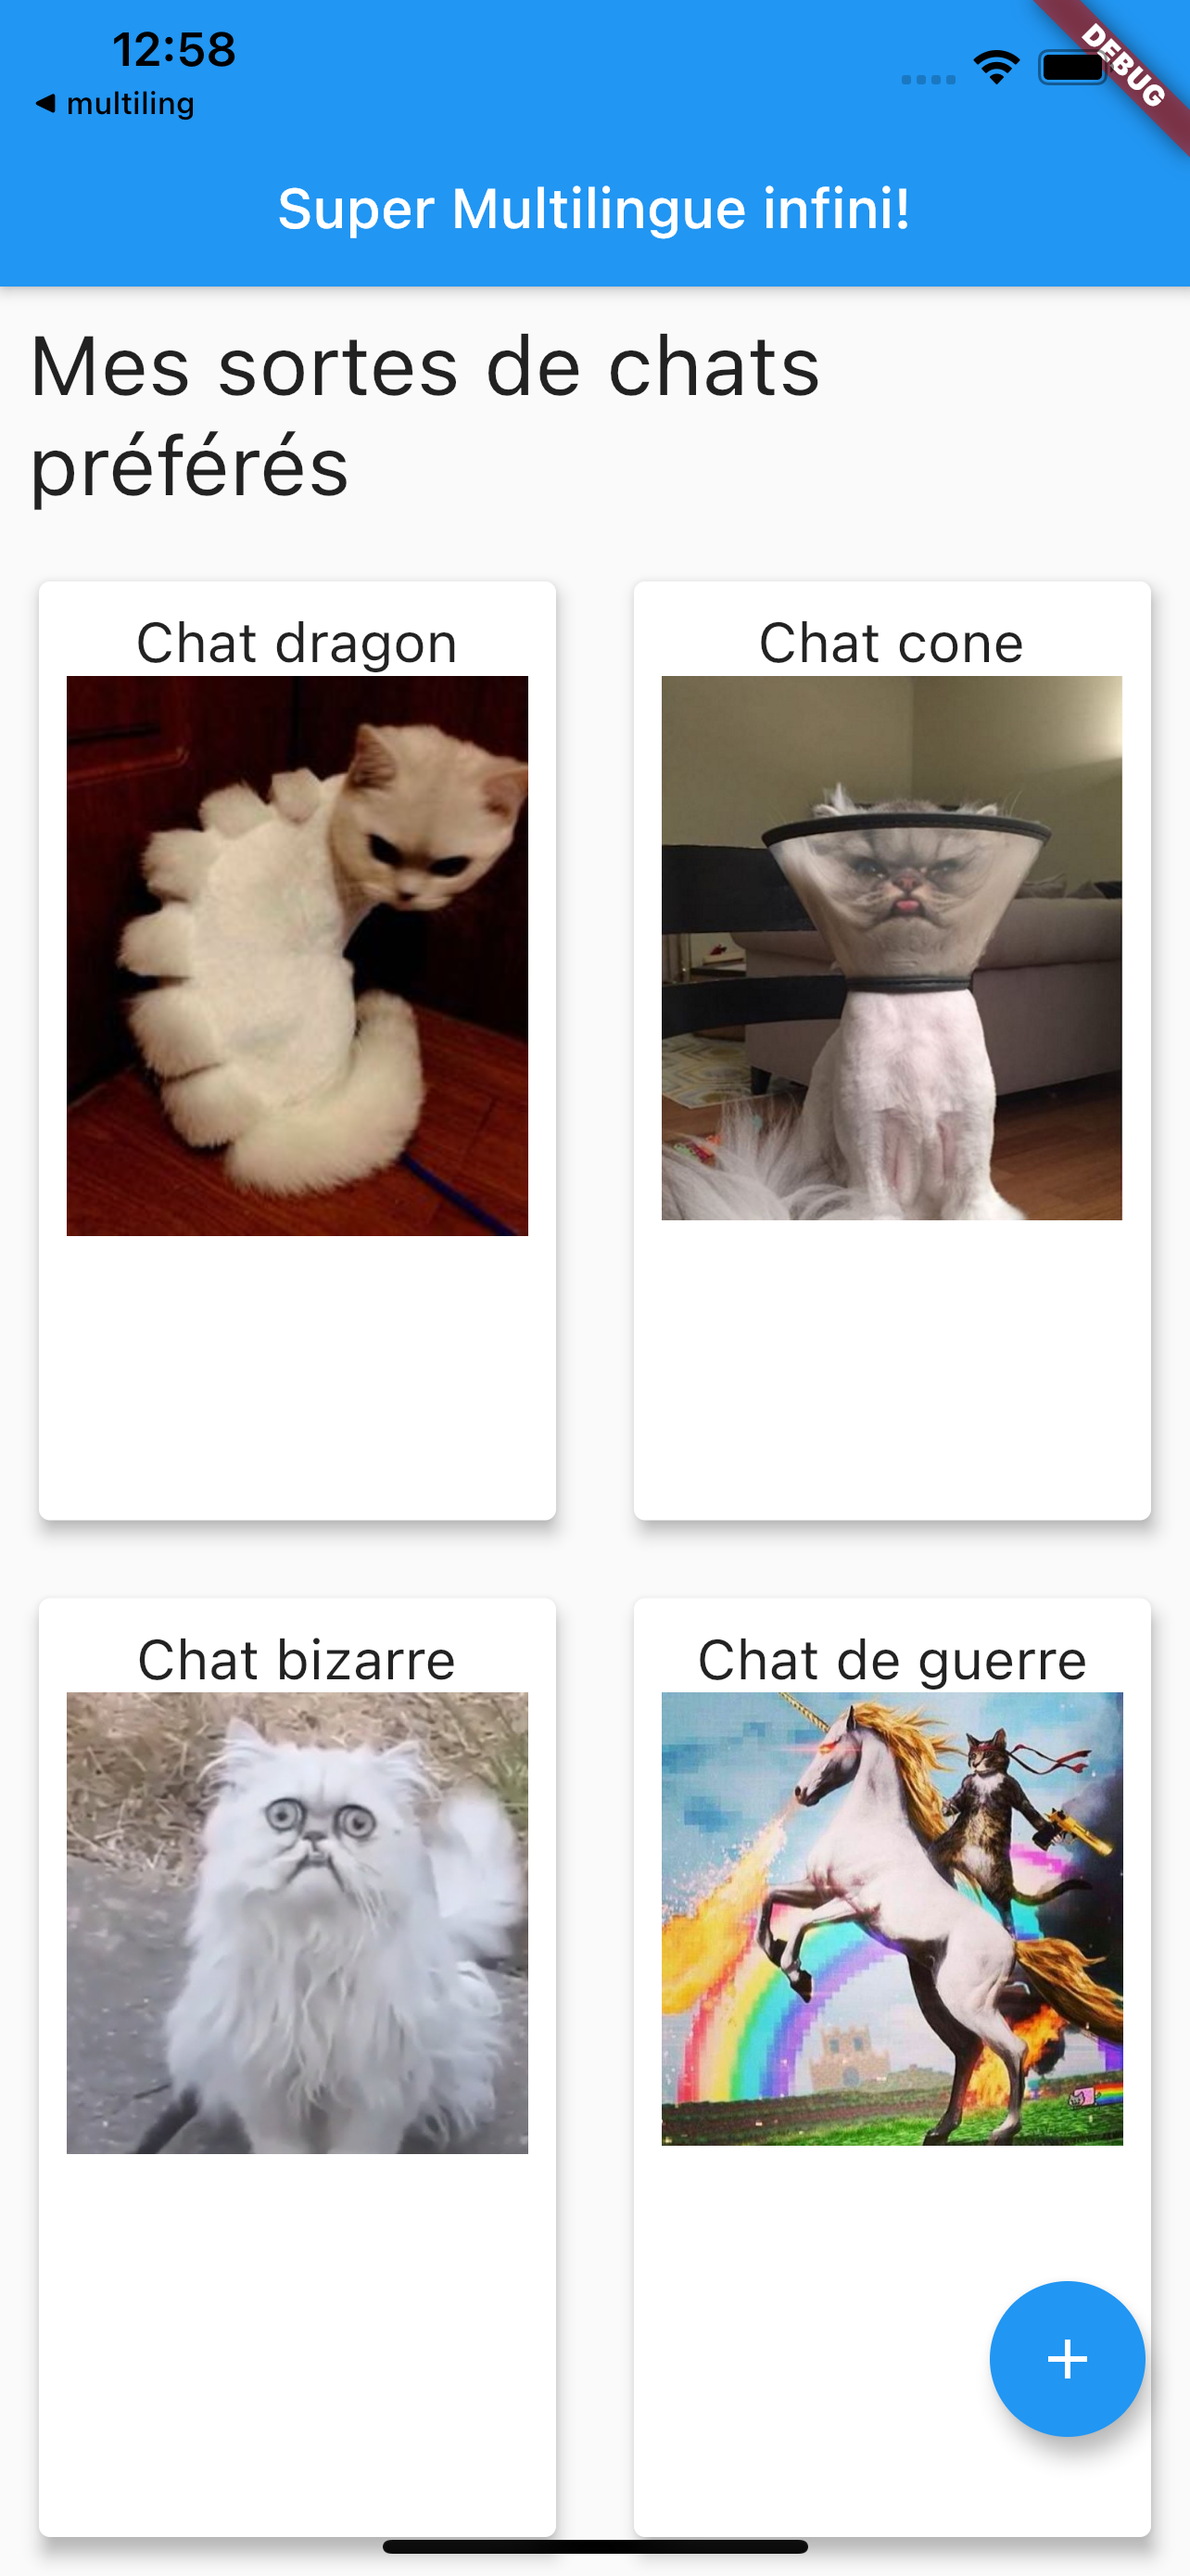
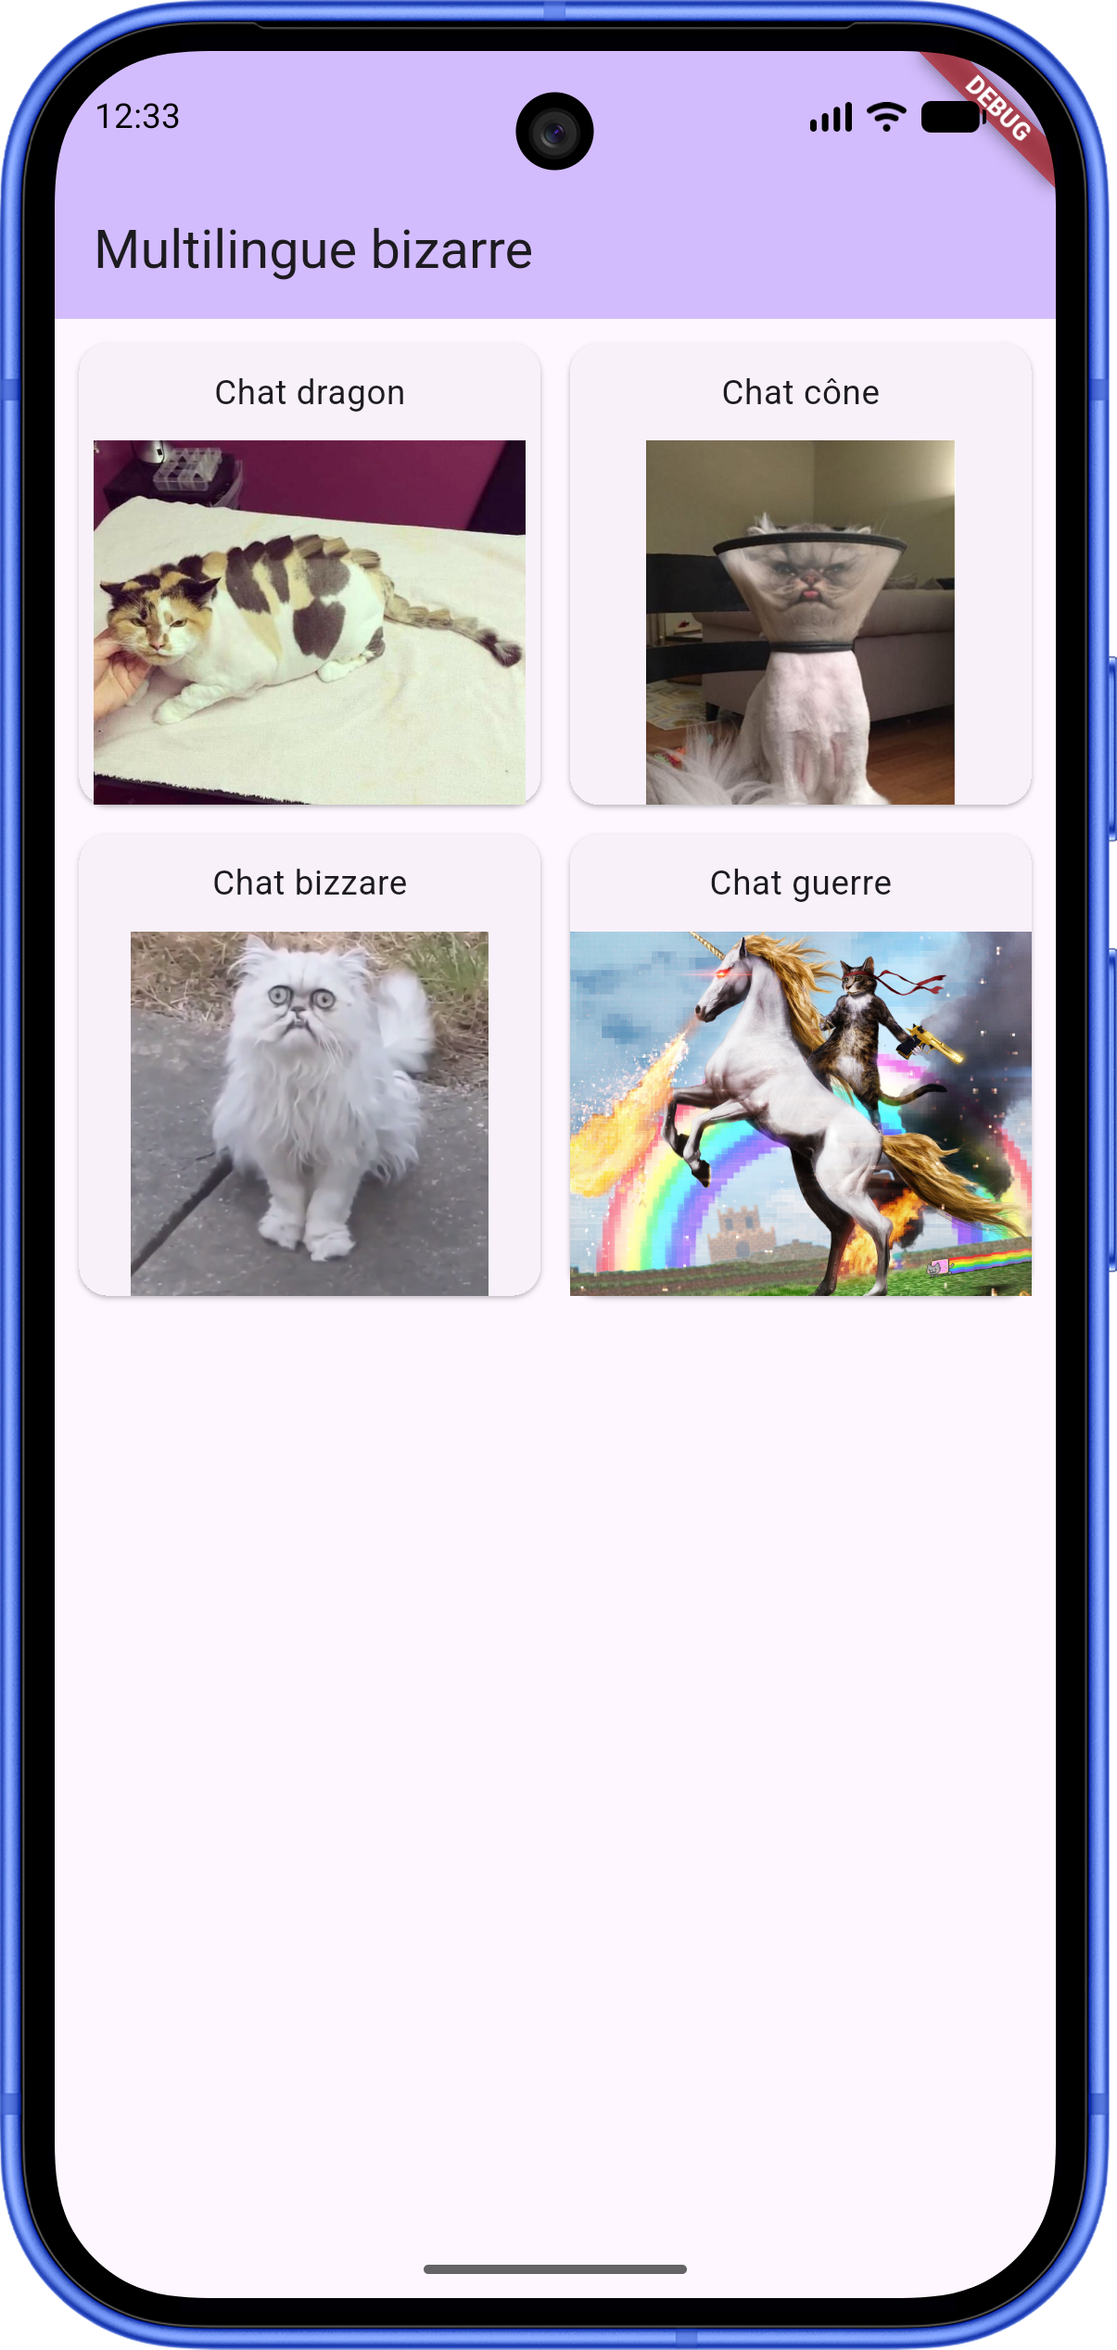
lab 3.1

diff --git a/web/docs/04-laboratoires/Laboratoire 3.1/b-plein_de_tailles.md b/web/docs/04-laboratoires/Laboratoire 3.1/b-plein_de_tailles.md
@@ -2,28 +2,28 @@
 
 ## Objectif 🎯
 
-## plein_de_tailles
+Créer une interface adaptative (responsive) qui modifie radicalement sa structure en fonction de l'espace disponible, en combinant des calques et des effets visuels.
 
-Reproduire les mises en page suivantes dans une appli Flutter appelée plein_de_tailles. Il sera essentiel que la mise en page soit jolie peu importe la taille de l'écran, l'orientation et la résolution.
+## À faire 🛠
 
-Vous aurez probablement besoin d'utiliser le [OrientationBuilder](https://flutter.dev/docs/cookbook/design/orientation).
+Créez une application affichant un formulaire de connexion ("Mes voyages - Connexion") accompagné d'une image de votre choix. L'interface doit s'adapter automatiquement selon l'espace disponible à l'écran :
 
-Tester votre application avec les appareils suivants:
-
-- Pixel 10
-- Pixel C
+1. **La détection** : Utilisez un `LayoutBuilder` pour basculer entre deux mises en page distinctes. Contrairement à d'autres méthodes qui vérifient l'inclinaison du téléphone, le `LayoutBuilder` prend des décisions basées sur les contraintes d'espace (ex: la largeur maximale `maxWidth` disponible). C'est la meilleure pratique pour gérer les différentes tailles d'écrans ! Fixez un point de bascule (breakpoint), par exemple à 600 pixels de large.
+2. **Mode Étroit (L'empilement)** : Si l'espace est restreint (format portrait usuel), l'image de forêt doit prendre tout l'arrière-plan. Utilisez un widget `Stack` pour centrer la carte du formulaire par-dessus l'image. Appliquez un widget `BackdropFilter` pour rendre l'image de fond floue afin que le formulaire reste lisible.
+3. **Mode Large (Côte à côte)** : Si l'espace est vaste (format paysage ou tablette), la disposition doit changer pour une vue horizontale. Placez le formulaire dans la moitié gauche de l'écran et l'image dans la moitié droite. Dans ce mode, l'image ne doit pas être floue.
+4. **Validation** : Testez la robustesse de votre interface avec des tailles d'écran très différentes, spécifiquement sur les émulateurs **Pixel 10** (téléphone), **Pixel Fold** (téléphone pliable) et **Pixel Tablet** (tablette). Vous pouvez créer les Pixel Tablet et Pixel Fold dans Android Studio en utilisant l'option "Add Device" dans l'onglet "Device Manager".
 
 <Row>
 
-<Column size="3">
+<Column size="4">
 
-![Capture d'une mise en page adaptée à une petite taille d'écran](_b-taille1.png)
+![Capture d'écran de l'application sur un écran étroit. L'arrière-plan est une photo d'un sentier forestier, mais celle-ci est recouverte d'un fort effet de flou. Au centre de l'écran, superposée par-dessus le fond flou, se trouve une carte blanche contenant un formulaire de connexion avec le titre 'Mes voyages - Connexion', des champs pour le nom et le mot de passe, et un bouton 'Poursuivre'.](_b-taille1.png)
 
 </Column>
 
-<Column size="9">
+<Column size="8">
 
-![Capture d'une mise en page adaptée à une grande taille d'écran](_b-taille2.png)
+![Capture d'écran de l'application sur un écran large. Au centre d'un fond gris clair se trouve une très large carte blanche divisée en deux parties. La moitié gauche contient le même formulaire de connexion que précédemment. La moitié droite affiche la photo du sentier forestier, cette fois-ci parfaitement nette et sans aucun effet de flou.](_b-taille2.png)
 
 </Column>
 

diff --git a/web/docs/04-laboratoires/Laboratoire 3.1/a-multilingue_bizarre.md b/web/docs/04-laboratoires/Laboratoire 3.1/a-multilingue_bizarre.md
@@ -1,23 +1,25 @@
 # 👺 3.1A – multilingue_bizarre
 
-## Objectif 🎯
+## Objectifs 🎯
 
-## multilingue_bizarre
+- Découvrir l'internationalisation (i18n)
+- Configurer des images locales (assets)
+- Implémenter un affichage en grille (`GridView.builder`).
 
-Vous devez reproduire la mise en page de l'image suivante dans une application Flutter appelée multilingue_bizarre. Rendre l'application disponible dans les langues suivantes:
+## À faire 🛠
 
-- Français
-- Norvégien
-- Japonais
+1. **Les Assets (Images)** : Trouvez 4 images de chats "bizarres". Vous devez les intégrer localement dans votre projet (dossier interne) plutôt que via des URLs.
+2. **La Grille (`GridView.builder`)** : Reproduisez la mise en page de l'image de référence en utilisant un `GridView.builder`. Chaque élément de la grille doit être une carte contenant le nom du chat et son image. Recherche requise : comment configurer les colonnes d'un `GridView` (par exemple avec `SliverGridDelegateWithFixedCrossAxisCount`).
+3. **L'internationalisation** : Configurez votre application pour qu'elle supporte trois langues : Français, Norvégien et Japonais. Le titre de l'application (dans le AppBar) ainsi que les 4 noms des chats doivent se traduire automatiquement en fonction de la langue du système.
 
 <Row>
 <Column>
-![Capture d'un exemple d'interface multilingue en français](./_a-biz1.png)
+![Capture d'écran de l'application 'Multilingue bizarre' configurée en français. L'interface affiche une grille composée de deux colonnes et deux rangées, présentant quatre cartes sur un fond blanc. Chaque carte possède des coins arrondis et contient deux éléments : un titre en haut (ex: 'Chat dragon', 'Chat cône', 'Chat bizzare', 'Chat guerre') et une photo humoristique de chat juste en dessous. Les images s'ajustent à la largeur de leur carte respective.](./_a-biz1.png)
 </Column>
 <Column>
-![Capture d'un exemple d'interface multilingue en norvégien](./_a-biz2.png)
+![Même chose que la précédente mais configurée en norvégien](./_a-biz2.png)
 </Column>
 <Column>
-![Capture d'un exemple d'interface multilingue en japonais](./_a-biz3.png)
+![Même chose que la précédente mais configurée en japonais](./_a-biz3.png)
 </Column>
 </Row>

diff --git a/web/docs/04-laboratoires/Laboratoire 1.1/a-apprivoiser.md b/web/docs/04-laboratoires/Laboratoire 1.1/a-apprivoiser.md
@@ -7,9 +7,11 @@ Nous vous recommandons de limiter votre usage de LLM pour cet exercice, à moins
 2. Souvent plus à jour sur le site du framework que sur les LLM, où l'information tend à dater si la recherche web n'est pas activée
 :::
 
+## À faire 🛠
+
 Trouvez les informations suivantes sur le langage Dart et le framework Flutter et notez-les quelque part :
 
-## Conventions de nommage
+### Conventions de nommage
 
 - Nom des fichiers
 - Nom des classes
@@ -17,18 +19,18 @@ Trouvez les informations suivantes sur le langage Dart et le framework Flutter e
 - Nom des variables
 - Identificateur pour indiquer si une variable est publique ou privée
 
-## Gestion des dépendances
+### Gestion des dépendances
 
 - Gestionnaire de packages utilisé en Dart, et site web où l'on peut chercher les packages
 - Nom du fichier qui stocke les dépendances à installer
 - Commande à exécuter pour installer un nouveau package
 - Commande à exécuter pour télécharger les packages qui sont décrits dans le fichier trouvé à la question précédente
 
-## Paradigme et concepts clés
+### Paradigme et concepts clés
 
 Prenez le temps de lire ce que votre LLM favori vous répond à la question suggérée [ici](../../03-recettes/nouveau-framework.md#paradigme-et-concepts-clés).
 
-## Outillage (CLI et Débogage)
+### Outillage (CLI et Débogage)
 
 - Le ou les environnements de développement suggérés par les développeurs de Flutter 
 - Commande pour démarrer un projet Flutter sur un émulateur Android en ligne de commande

diff --git a/web/docs/04-laboratoires/Laboratoire 1.2/a-drapeau-italien.md b/web/docs/04-laboratoires/Laboratoire 1.2/a-drapeau-italien.md
@@ -8,7 +8,9 @@ Maîtriser :
 - la répartition proportionnelle de l'espace à l'écran
 - la configuration globale de l'application.
 
-## Étape 1 : La mise en page du drapeau
+## À faire 🛠
+
+### Étape 1 : La mise en page du drapeau
 
 Créez une interface qui reproduit fidèlement le drapeau de l'Italie
 
@@ -20,7 +22,7 @@ Votre mise en page doit respecter les règles suivantes :
 
 ![Application mobile affichant le drapeau de l'Italie. L'écran au format paysage est divisé en trois bandes horizontales de largeur parfaitement égale : verte à gauche, blanche au centre, et rouge à droite. Les couleurs s'étendent de tout en haut jusqu'à tout en bas de l'écran, sans aucune marge.](./_a-drapeau_italien.png)
 
-## Étape 2 : Configuration de l'application (Bonus)
+### Étape 2 : Configuration de l'application (Bonus)
 
 :::tip Bonus 1 : Cacher le ruban de débogage
 Par défaut, Flutter affiche une petite bannière rouge "DEBUG" dans le coin supérieur droit. Trouvez comment la masquer.

diff --git a/web/docs/04-laboratoires/Laboratoire 1.2/b-plein-de-containers.md b/web/docs/04-laboratoires/Laboratoire 1.2/b-plein-de-containers.md
@@ -8,9 +8,12 @@ Pratiquer :
 - la manipulation de l'espacement (Padding)
 - l'optimisation de code (refactorisation).
 
+## À faire 🛠
+
 <Row>
 <Column size="6">
-## Étape 1 : L'interface de base
+
+### Étape 1 : L'interface de base
 
 Créez un écran qui affiche une liste défilante verticalement (utilisez un `ListView`). Cette liste doit contenir **10** `Container` empilés les uns sous les autres.
 
@@ -40,7 +43,7 @@ Colors.green[300] // Plus foncé
 ```
 :::
 
-## Étape 2 : L'optimisation (Bonus)
+### Étape 2 : L'optimisation (Bonus)
 
 :::tip Bonus 1 : Limiter la duplication (Principe [DRY](http://fr.wikipedia.org/wiki/Ne_vous_r%C3%A9p%C3%A9tez_pas))
 Si vous avez réalisé l'Étape 1 de façon "naïve", vous avez probablement copié-collé le même bloc de code 10 fois pour créer vos 10 conteneurs. Modifiez votre code pour extraire la création d'un conteneur dans une méthode ou un Widget réutilisable.

diff --git a/web/docs/04-laboratoires/Laboratoire 2.1/b-liste_nav_drawer.md b/web/docs/04-laboratoires/Laboratoire 2.1/b-liste_nav_drawer.md
@@ -4,7 +4,9 @@
 
 Pratiquer la navigation en transmettant des données personnalisées et intégrer un menu latéral de façon autonome.
 
-## Étape 1 : Liste et navigation
+## À faire 🛠
+
+### Étape 1 : Liste et navigation
 
 Faites un premier écran nommé **Liste** qui contient une liste de 5 objets de type `Truc` contenant un **nom** (`String`) et un **id** (`int`).
 
@@ -16,7 +18,7 @@ Si vous voulez utiliser Router pour cet exercice, il faut trouver un moyen de pa
 Vous devrez faire un peu de recherche pour trouver une façon propre d'y arriver.
 :::
 
-## Étape 2 : Tiroir de navigation
+### Étape 2 : Tiroir de navigation
 
 Créez un troisième écran nommé **Connexion** qui affiche "Une page de connexion quelconque".
 

diff --git a/web/docs/04-laboratoires/Laboratoire 2.2/c-jolie_liste_builder.md b/web/docs/04-laboratoires/Laboratoire 2.2/c-jolie_liste_builder.md
@@ -4,7 +4,7 @@
 
 Optimiser l'affichage d'une longue liste en remplaçant une génération statique par un constructeur dynamique (`ListView.builder`).
 
-## jolie_liste_builder
+## À faire 🛠
 
 1. **Le point de départ** : Reprenez la logique de calcul (les 75 premiers nombres de Fibonacci) et la mise en forme visuelle (le style des cartes) développées dans l'exercice précédent (2.2B).
 2. **La refactorisation** : Au lieu d'utiliser la fonction .map() pour générer tous vos widgets d'un coup, remplacez votre implémentation par le widget ListView.builder.

diff --git a/web/docs/04-laboratoires/Laboratoire 2.2/b-jolie_liste_lambda.md b/web/docs/04-laboratoires/Laboratoire 2.2/b-jolie_liste_lambda.md
@@ -4,13 +4,11 @@
 
 Utiliser la fonction .map() et les expressions lambda pour transformer dynamiquement une liste de données brutes en une liste de widgets stylisés.
 
-
-
 <Row>
 
 <Column size="9">
 
-## jolie_liste_lambda
+## À faire 🛠
 
 1. **Les données (Logique)** : Calculez et stockez les 75 premiers nombres de la suite de Fibonacci dans une liste en Dart.
 2. **La transformation (Interface)** : Utilisez la fonction map sur votre liste de nombres pour générer un widget d'affichage pour chaque élément de la suite.

diff --git a/web/docs/04-laboratoires/Laboratoire 2.2/a-ordre_alpha.md b/web/docs/04-laboratoires/Laboratoire 2.2/a-ordre_alpha.md
@@ -4,7 +4,7 @@
 
 Manipuler l'état d'une liste (dans un StatefulWidget), réorganiser ses éléments dynamiquement et vérifier une condition de victoire.
 
-## ordre_alpha
+## À faire 🛠
 
 1. **La liste initiale** : Créez et affichez une liste de 5 prénoms mélangés de façon aléatoire.
 2. **Les contrôles** : Pour chaque prénom affiché, ajoutez un bouton pour le faire monter et un bouton pour le faire descendre dans la liste.

diff --git a/web/docs/04-laboratoires/Laboratoire 1.2/d-fibonacci.md b/web/docs/04-laboratoires/Laboratoire 1.2/d-fibonacci.md
@@ -6,11 +6,10 @@
 
 Approfondir votre compréhension de l'imbrication des widgets `Row` et `Column`, et maîtriser la répartition proportionnelle de l'espace grâce à la propriété `flex` du widget `Expanded`.
 
-
-
 <Row size="8">
 <Column>
-## Fibonacci
+
+## À faire 🛠
 
 Reproduisez la mise en page illustrée dans l'image de référence, qui s'inspire de la célèbre suite mathématique de Fibonacci.
 

diff --git a/web/docs/04-laboratoires/Laboratoire 2.1/a-simple_nav.md b/web/docs/04-laboratoires/Laboratoire 2.1/a-simple_nav.md
@@ -4,7 +4,7 @@
 
 Pratiquer la navigation de base entre différents écrans et apprendre à transmettre des données (paramètres) d'un widget à un autre. 
 
-## simple_nav
+## À faire 🛠
 
 Faites un premier écran qui contient un champ texte et un bouton. Quand on appuie sur le bouton, on navigue vers un deuxième écran en lui passant la valeur du champ texte.
 

diff --git a/web/docs/04-laboratoires/Laboratoire 1.1/b-tape-lapin.md b/web/docs/04-laboratoires/Laboratoire 1.1/b-tape-lapin.md
@@ -7,7 +7,7 @@
 - Produire une première application fonctionnelle
 - Comprendre les éléments essentiels vus aujourd'hui : widgets, état et gestion des clics
 
-## Quoi faire
+## À faire 🛠
 
 Suivez la recette de [Tape le 🐇](../../03-recettes/tape-le-lapin.md) étape par étape pour construire votre propre Tape le 🐇. 
 
